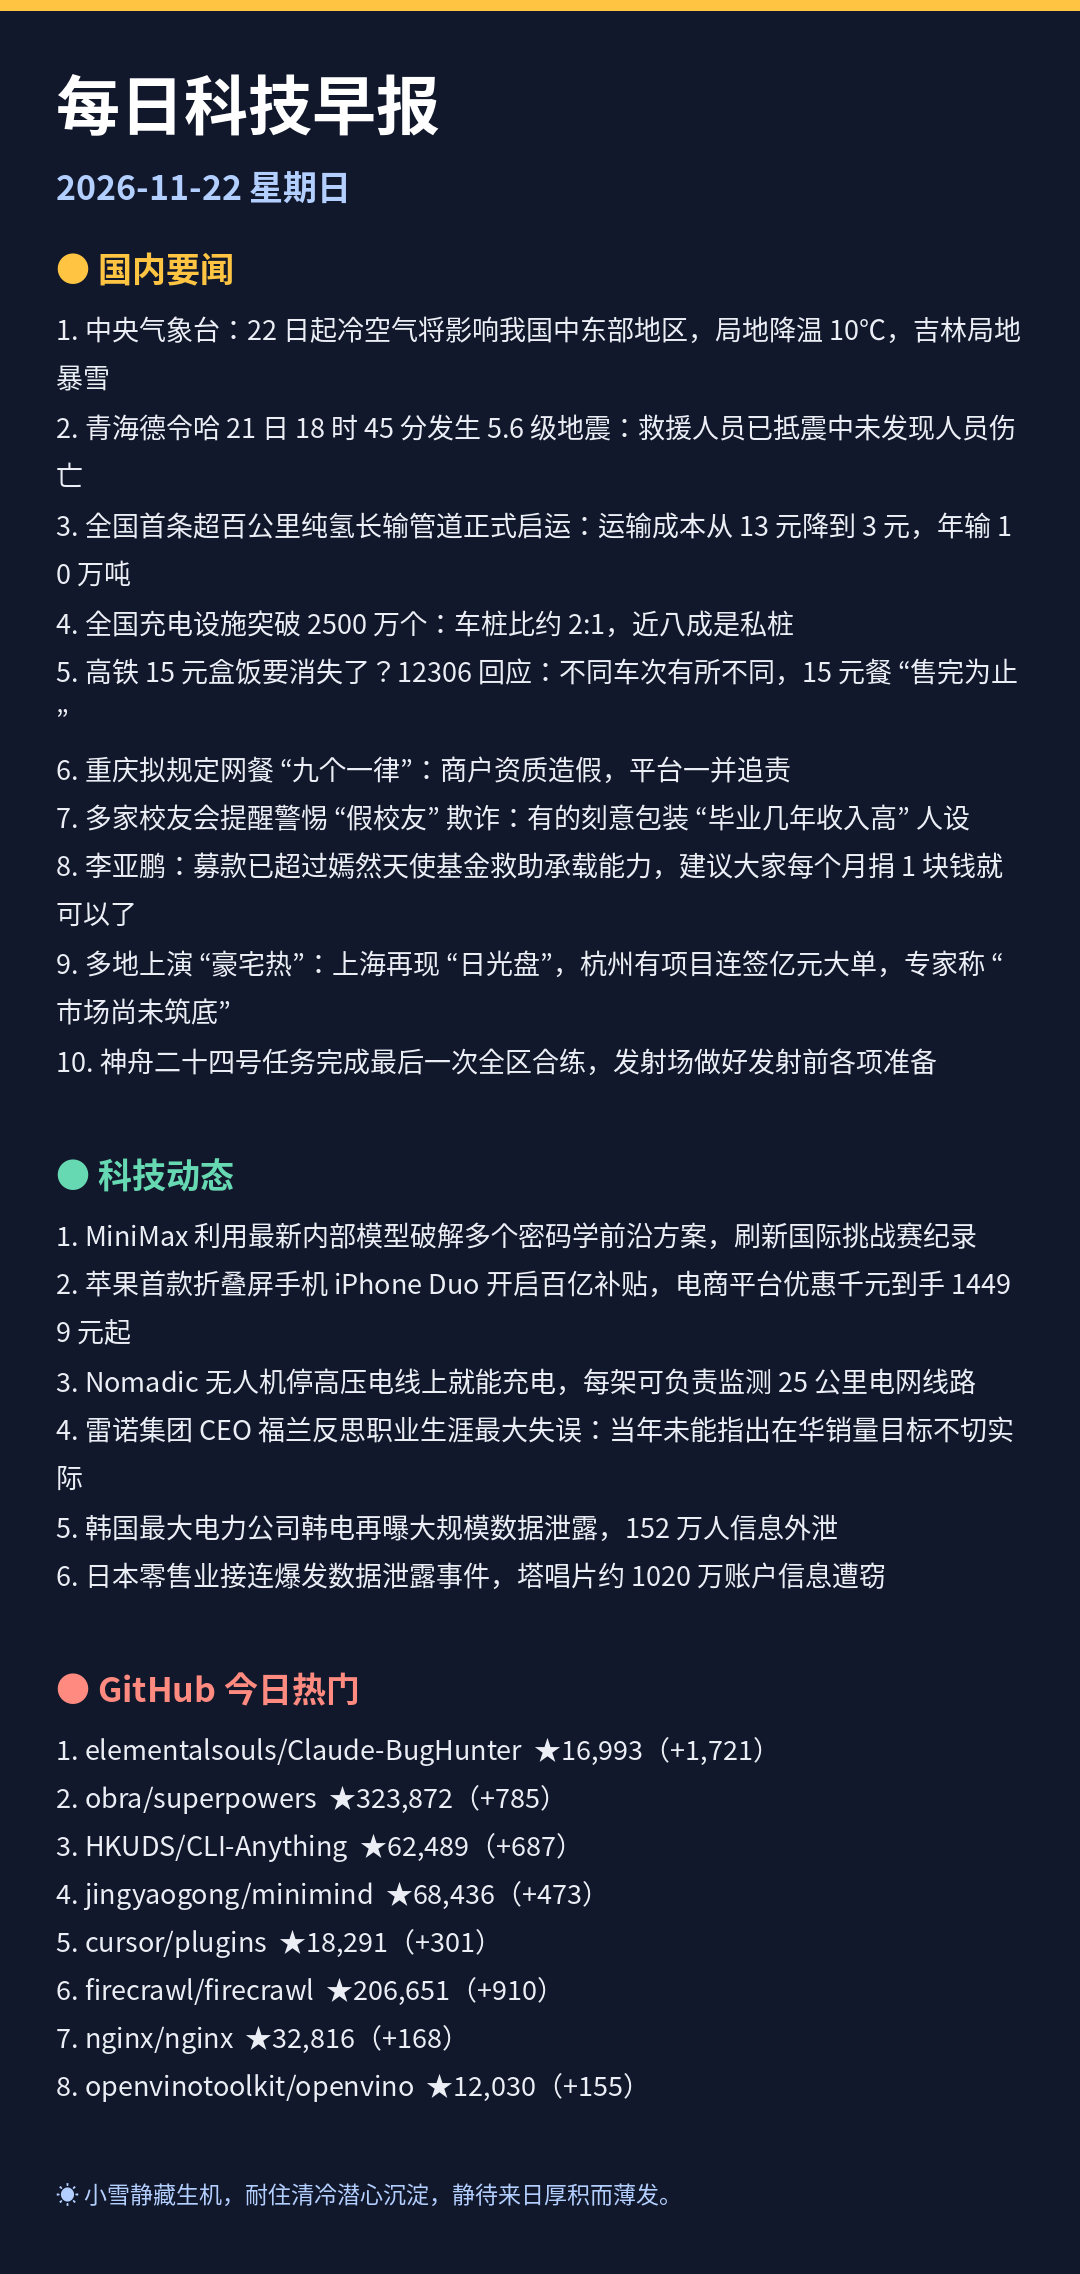
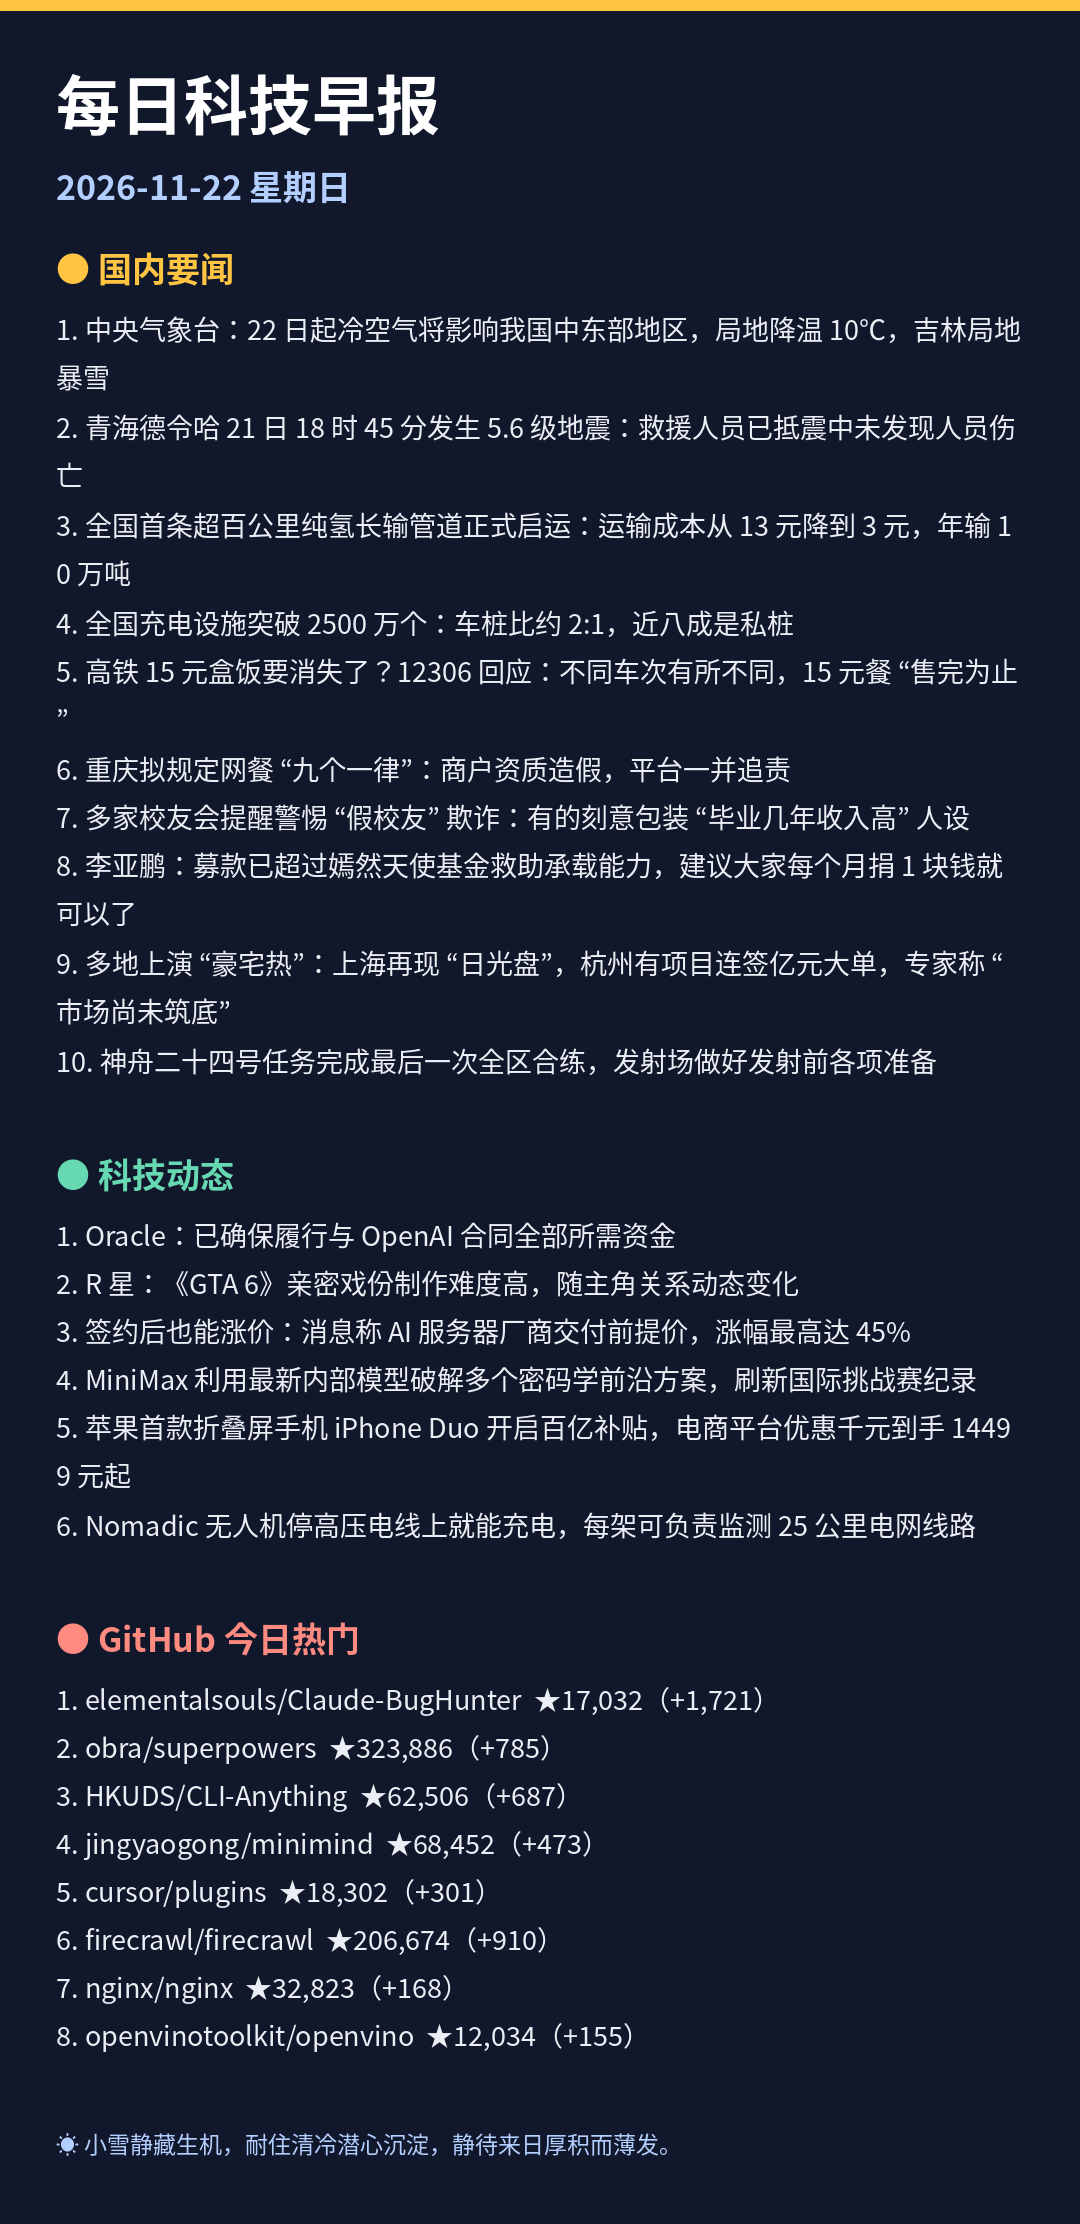
每日早报 2026-11-22

diff --git a/README.md b/README.md
@@ -30,34 +30,34 @@
 
 ## 💻 科技动态
 
-1. [MiniMax 利用最新内部模型破解多个密码学前沿方案，刷新国际挑战赛纪录](https://www.ithome.com/1/030/711.htm)
-2. [苹果首款折叠屏手机 iPhone Duo 开启百亿补贴，电商平台优惠千元到手 14499 元起](https://www.ithome.com/1/030/710.htm)
-3. [Nomadic 无人机停高压电线上就能充电，每架可负责监测 25 公里电网线路](https://www.ithome.com/1/030/708.htm)
-4. [雷诺集团 CEO 福兰反思职业生涯最大失误：当年未能指出在华销量目标不切实际](https://www.ithome.com/1/030/707.htm)
-5. [韩国最大电力公司韩电再曝大规模数据泄露，152 万人信息外泄](https://www.ithome.com/1/030/706.htm)
-6. [日本零售业接连爆发数据泄露事件，塔唱片约 1020 万账户信息遭窃](https://www.ithome.com/1/030/704.htm)
-7. [微星推出“PRO MP272L”27 英寸显示器：1080P 100Hz，599 元](https://www.ithome.com/1/030/703.htm)
-8. [B站就“AI 大肥鱼”智能体账号泛滥发布调查问卷，征集治理意见](https://www.ithome.com/1/030/702.htm)
+1. [Oracle：已确保履行与 OpenAI 合同全部所需资金](https://www.ithome.com/1/030/715.htm)
+2. [R 星：《GTA 6》亲密戏份制作难度高，随主角关系动态变化](https://www.ithome.com/1/030/714.htm)
+3. [签约后也能涨价：消息称 AI 服务器厂商交付前提价，涨幅最高达 45%](https://www.ithome.com/1/030/713.htm)
+4. [MiniMax 利用最新内部模型破解多个密码学前沿方案，刷新国际挑战赛纪录](https://www.ithome.com/1/030/711.htm)
+5. [苹果首款折叠屏手机 iPhone Duo 开启百亿补贴，电商平台优惠千元到手 14499 元起](https://www.ithome.com/1/030/710.htm)
+6. [Nomadic 无人机停高压电线上就能充电，每架可负责监测 25 公里电网线路](https://www.ithome.com/1/030/708.htm)
+7. [雷诺集团 CEO 福兰反思职业生涯最大失误：当年未能指出在华销量目标不切实际](https://www.ithome.com/1/030/707.htm)
+8. [韩国最大电力公司韩电再曝大规模数据泄露，152 万人信息外泄](https://www.ithome.com/1/030/706.htm)
 
 <sub>来源：IT之家</sub>
 
 ## 🔥 GitHub 今日热门
 
-1. **[elementalsouls/Claude-BugHunter](https://github.com/elementalsouls/Claude-BugHunter)** — ⭐ 16,993（今日 +1,721） · Python
+1. **[elementalsouls/Claude-BugHunter](https://github.com/elementalsouls/Claude-BugHunter)** — ⭐ 17,032（今日 +1,721） · Python
    A Claude Code skill bundle for bug hunting and external red-team work - 82 skills, 15 slash commands, 681 disclosed-repo…
-2. **[obra/superpowers](https://github.com/obra/superpowers)** — ⭐ 323,872（今日 +785） · Shell
+2. **[obra/superpowers](https://github.com/obra/superpowers)** — ⭐ 323,886（今日 +785） · Shell
    An agentic skills framework software development methodology that works.
-3. **[HKUDS/CLI-Anything](https://github.com/HKUDS/CLI-Anything)** — ⭐ 62,489（今日 +687） · Python
+3. **[HKUDS/CLI-Anything](https://github.com/HKUDS/CLI-Anything)** — ⭐ 62,506（今日 +687） · Python
    "CLI-Anything: Making ALL Software Agent-Native" -- CLI-Hub: https://clianything.cc/
-4. **[jingyaogong/minimind](https://github.com/jingyaogong/minimind)** — ⭐ 68,436（今日 +473） · Python
+4. **[jingyaogong/minimind](https://github.com/jingyaogong/minimind)** — ⭐ 68,452（今日 +473） · Python
    🧠 两小时从 0 训出你的 64M 大模型。Train your own 64M LLM from scratch in 2 hours.
-5. **[cursor/plugins](https://github.com/cursor/plugins)** — ⭐ 18,291（今日 +301） · TypeScript
+5. **[cursor/plugins](https://github.com/cursor/plugins)** — ⭐ 18,302（今日 +301） · TypeScript
    Cursor plugin specification and official plugins
-6. **[firecrawl/firecrawl](https://github.com/firecrawl/firecrawl)** — ⭐ 206,651（今日 +910） · TypeScript
+6. **[firecrawl/firecrawl](https://github.com/firecrawl/firecrawl)** — ⭐ 206,674（今日 +910） · TypeScript
    Knowledge infrastructure to make your agents smarter. Search, scrape and access 550+ data providers through one API.
-7. **[nginx/nginx](https://github.com/nginx/nginx)** — ⭐ 32,816（今日 +168） · C
+7. **[nginx/nginx](https://github.com/nginx/nginx)** — ⭐ 32,823（今日 +168） · C
    The official NGINX Open Source repository.
-8. **[openvinotoolkit/openvino](https://github.com/openvinotoolkit/openvino)** — ⭐ 12,030（今日 +155） · C++
+8. **[openvinotoolkit/openvino](https://github.com/openvinotoolkit/openvino)** — ⭐ 12,034（今日 +155） · C++
    OpenVINO™ is an open source toolkit for optimizing and deploying AI inference
 
 <sub>来源：GitHub Trending</sub>

diff --git a/editions/2026-11-22.md b/editions/2026-11-22.md
@@ -22,34 +22,34 @@
 
 ## 💻 科技动态
 
-1. [MiniMax 利用最新内部模型破解多个密码学前沿方案，刷新国际挑战赛纪录](https://www.ithome.com/1/030/711.htm)
-2. [苹果首款折叠屏手机 iPhone Duo 开启百亿补贴，电商平台优惠千元到手 14499 元起](https://www.ithome.com/1/030/710.htm)
-3. [Nomadic 无人机停高压电线上就能充电，每架可负责监测 25 公里电网线路](https://www.ithome.com/1/030/708.htm)
-4. [雷诺集团 CEO 福兰反思职业生涯最大失误：当年未能指出在华销量目标不切实际](https://www.ithome.com/1/030/707.htm)
-5. [韩国最大电力公司韩电再曝大规模数据泄露，152 万人信息外泄](https://www.ithome.com/1/030/706.htm)
-6. [日本零售业接连爆发数据泄露事件，塔唱片约 1020 万账户信息遭窃](https://www.ithome.com/1/030/704.htm)
-7. [微星推出“PRO MP272L”27 英寸显示器：1080P 100Hz，599 元](https://www.ithome.com/1/030/703.htm)
-8. [B站就“AI 大肥鱼”智能体账号泛滥发布调查问卷，征集治理意见](https://www.ithome.com/1/030/702.htm)
+1. [Oracle：已确保履行与 OpenAI 合同全部所需资金](https://www.ithome.com/1/030/715.htm)
+2. [R 星：《GTA 6》亲密戏份制作难度高，随主角关系动态变化](https://www.ithome.com/1/030/714.htm)
+3. [签约后也能涨价：消息称 AI 服务器厂商交付前提价，涨幅最高达 45%](https://www.ithome.com/1/030/713.htm)
+4. [MiniMax 利用最新内部模型破解多个密码学前沿方案，刷新国际挑战赛纪录](https://www.ithome.com/1/030/711.htm)
+5. [苹果首款折叠屏手机 iPhone Duo 开启百亿补贴，电商平台优惠千元到手 14499 元起](https://www.ithome.com/1/030/710.htm)
+6. [Nomadic 无人机停高压电线上就能充电，每架可负责监测 25 公里电网线路](https://www.ithome.com/1/030/708.htm)
+7. [雷诺集团 CEO 福兰反思职业生涯最大失误：当年未能指出在华销量目标不切实际](https://www.ithome.com/1/030/707.htm)
+8. [韩国最大电力公司韩电再曝大规模数据泄露，152 万人信息外泄](https://www.ithome.com/1/030/706.htm)
 
 <sub>来源：IT之家</sub>
 
 ## 🔥 GitHub 今日热门
 
-1. **[elementalsouls/Claude-BugHunter](https://github.com/elementalsouls/Claude-BugHunter)** — ⭐ 16,993（今日 +1,721） · Python
+1. **[elementalsouls/Claude-BugHunter](https://github.com/elementalsouls/Claude-BugHunter)** — ⭐ 17,032（今日 +1,721） · Python
    A Claude Code skill bundle for bug hunting and external red-team work - 82 skills, 15 slash commands, 681 disclosed-repo…
-2. **[obra/superpowers](https://github.com/obra/superpowers)** — ⭐ 323,872（今日 +785） · Shell
+2. **[obra/superpowers](https://github.com/obra/superpowers)** — ⭐ 323,886（今日 +785） · Shell
    An agentic skills framework software development methodology that works.
-3. **[HKUDS/CLI-Anything](https://github.com/HKUDS/CLI-Anything)** — ⭐ 62,489（今日 +687） · Python
+3. **[HKUDS/CLI-Anything](https://github.com/HKUDS/CLI-Anything)** — ⭐ 62,506（今日 +687） · Python
    "CLI-Anything: Making ALL Software Agent-Native" -- CLI-Hub: https://clianything.cc/
-4. **[jingyaogong/minimind](https://github.com/jingyaogong/minimind)** — ⭐ 68,436（今日 +473） · Python
+4. **[jingyaogong/minimind](https://github.com/jingyaogong/minimind)** — ⭐ 68,452（今日 +473） · Python
    🧠 两小时从 0 训出你的 64M 大模型。Train your own 64M LLM from scratch in 2 hours.
-5. **[cursor/plugins](https://github.com/cursor/plugins)** — ⭐ 18,291（今日 +301） · TypeScript
+5. **[cursor/plugins](https://github.com/cursor/plugins)** — ⭐ 18,302（今日 +301） · TypeScript
    Cursor plugin specification and official plugins
-6. **[firecrawl/firecrawl](https://github.com/firecrawl/firecrawl)** — ⭐ 206,651（今日 +910） · TypeScript
+6. **[firecrawl/firecrawl](https://github.com/firecrawl/firecrawl)** — ⭐ 206,674（今日 +910） · TypeScript
    Knowledge infrastructure to make your agents smarter. Search, scrape and access 550+ data providers through one API.
-7. **[nginx/nginx](https://github.com/nginx/nginx)** — ⭐ 32,816（今日 +168） · C
+7. **[nginx/nginx](https://github.com/nginx/nginx)** — ⭐ 32,823（今日 +168） · C
    The official NGINX Open Source repository.
-8. **[openvinotoolkit/openvino](https://github.com/openvinotoolkit/openvino)** — ⭐ 12,030（今日 +155） · C++
+8. **[openvinotoolkit/openvino](https://github.com/openvinotoolkit/openvino)** — ⭐ 12,034（今日 +155） · C++
    OpenVINO™ is an open source toolkit for optimizing and deploying AI inference
 
 <sub>来源：GitHub Trending</sub>
